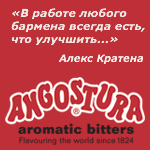
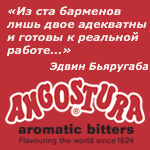
content update

Changed region(s): [[0.0267, 0.0267, 0.9867, 0.48]]

diff --git a/htdocs/blog/rules-17-05-2012/rules-17-05-2012.html b/htdocs/blog/rules-17-05-2012/rules-17-05-2012.html
@@ -1,0 +1,96 @@
+<!DOCTYPE html>
+<html lang="ru" id="blog-post-page" class="blog-section branding-short">
+<head>
+	<!--# include virtual="/inc/blog-head.html" -->
+	<meta property="fb:app_id" content="212377082118520">
+	<title>Правила работы: Эдвин Бьяругаба — Супер Блог — Inshaker</title>
+</head>
+<body>
+<!--# include virtual="/inc/common-top.html" -->
+<div id="common-main-wrapper">
+
+<!--# include virtual="/inc/blog-top.html" -->
+
+<div id="the-one">
+
+<div class="post">
+	<h1 class="title" data-title="Правила работы: Эдвин Бьяругаба">Правила работы: Эдвин Бьяругаба</h1>
+	<div class="body">
+		<p><a href="/barman/edvin-byarygaba/">Эдвин Бьяругаба</a>, бар-менеджер дизайнерского бара <a href="/bar/denis_simachev_shop_and_bar/">«Симачёв»</a>, 30 лет, Москва.</p>
+<p><div class="image-box"><img src="/blog/rules-17-05-2012/i/1.jpg" class="image"/></div>
+<div class="image-box"><img src="/blog/rules-17-05-2012/i/7.png" class="image"/></div></p>
+<p><p><b>К набору персонала</b> я отношусь очень щепетильно, в баре не должно быть случайных людей.</p>
+	<hr>
+<p><b>Бармен не должен</b> быть излишне самоуверен. Он должен хотеть развиваться дальше, учиться чему-то новому, излишняя самоуверенность лишь тянет человека назад.</p>
+	<hr>
+<p><b>Из ста барменов</b> лишь двое адекватны и готовы к реальной работе, со всеми ее плюсами и минусами.</p>
+	<hr>
+<p><b>Бармену нужно</b> отдаваться своему делу полностью. Это не однодневная или временная работа, это серьезная работа, у которой большие перспективы. </p>
+	<hr>
+<p><b>Человеку не должно быть скучно</b> на рабочем месте. Бармен без фантазии – явление невозможное, особенно, если речь идет о коктейльном баре.</p>
+	<hr>
+<p><b>Важно, чтобы каждый</b> коктейль подавался с одним смыслом и идеей, чтобы бармен миксовал напиток с одинаковой отдачей для всех гостей заведения.</p>
+	<hr>
+<p><b>Форс-мажорные ситуации</b> происходят постоянно, и справляться с ними нужно оперативно.</p>
+	<hr>
+<p><b>У барменов есть</b> якобы правило, что посетитель всегда прав. Это не правда, посетитель тоже бывает не прав.</p>
+	<hr>
+<p><b>Большой плюс бармену</b>, если он сможет принять неприятную ситуацию, не потеряв свое лицо.</p>
+	<hr>
+<p><b>Недопустимый промах в работе</b> – это вообще не прийти на работу.</p>
+	<hr>
+<p><b>Бармен – это мужская профессия</b>. Ты должен будешь поднимать коробки по 30 килограммов, все время находится на ногах, работать по ночам. Все это не для женщин.</p>
+	<hr>
+<p><b>Плюс в том</b>, что, профессия бармена в России только набирает обороты, а, значит, дальше будет только интереснее.</p>
+	<hr>
+<p><b>Удачный рабочий день</b> – это просто хороший день, когда ты уходишь с работы в отличном настроении, когда ты все успеваешь, что планировал.</p>
+	<hr>
+<p><b>Бармен не должен</b> пересиливать себя и выдавливать улыбку, если он в плохом настроении. Он должен быть, в первую очередь, вежливым профессионалом.</p>
+	<hr>
+<p><b>Чтобы стать успешным</b>, нужно быть трудолюбивым и уважать своего работодателя. И все получится.</p>
+	<hr></p>
+<p><div class="image-box"><img src="/blog/rules-17-05-2012/i/10.png" class="image"/></div></p>
+<p><i>Автор статьи — <a href="http://www.facebook.com/lina.marish">Полина Маришичева</a>, променявшая карьеру дипломата в Азии на «Белый русский» и коктейльную журналистику, при горькой поддержке биттеров <a href="/combinator.html#q%3DАнгостура%20биттер%26s%3Dincreasing-complexity%26y%3D0">Angostura</a>.</i></p>
+	</div>
+	<div class="more">
+		<div id="share-box">
+			<a class="button vkontakte" href="http://vkontakte.ru/share.php?url=${url}"><i></i></a><a class="button facebook" href="http://www.facebook.com/sharer.php?u=${url}&t=${text}"><i></i></a><a class="button twitter" href="http://twitter.com/share?url=${url}&text=${text}&via=inshaker&related=inshaker&lang=ru"><i></i></a>
+		</div>
+		
+		<div class="tags">
+			Теги:
+			<ul class="list">
+				
+				<li class="tag"><a class="link" href="/blog/#tag=правила работы">правила работы</a></li>
+				
+			</ul>
+		</div>
+		<a class="deeper" href="/blog/">← сколько всего интересного</a>
+		<span class="date">17 мая 2012</span>
+	</div>
+</div>
+
+</div id="the-one">
+
+
+<div id="fb-root"></div>
+<script src="http://connect.facebook.net/ru_RU/all.js#xfbml=1"></script>
+<fb:comments id="fb-comments-conf" num_posts="50" width="590"></fb:comments>
+<script>
+document.getElementById('fb-comments-conf').setAttribute('href', location.href)
+</script>
+
+
+<div id="tag-cloud">
+	Все теги:
+	<ul class="list">
+		<li class="tag all"><a class="link" href="/blog/">все посты</a></li>
+		<!--# include virtual="/blog/tag-cloud.html" -->
+	</ul>
+</div>
+
+
+</div id="common-main-wrapper">
+<!--# include virtual="/inc/blog-footer.html" -->
+</body>
+</html>

diff --git a/htdocs/blog/links.html b/htdocs/blog/links.html
@@ -1,3 +1,4 @@
+<li><a href="/event/rules-17-05-2012/">Правила работы: Эдвин Бьяругаба</a></li>
 <li><a href="/event/cocktail-classics-16-05-2012/">Коктейльная классика: Пунш плантатора</a></li>
 <li><a href="/event/cocktail-hit-15-05-2012/">Авторский хит: Блэк вуд</a></li>
 <li><a href="/event/buhlo-14-05-2012/">Бухло: Тупой, как пробка</a></li>
@@ -14,13 +15,13 @@
 <li><a href="/event/cocktail-rating-06-05-2012/">Коктейльные рейтинги: Топ 10 коктейлей с клюквенным морсом</a></li>
 <li><a href="/event/diageo-world-class-05-05-2012/">Diageo Reserve World Class 2012</a></li>
 <li><a href="/event/friends-05-05-2012/">Добавляем в друзья: Роман Милостивый</a></li>
-<li><a href="/event/open-04-05-2012/">Подбери помещение под свой бар</a></li>
 <li><a href="/event/learning-04-05-2012/">Хочу всё знать: Американский виски и его виды </a></li>
-<li><a href="/event/interior-03-05-2012/">Детали в барах: Майяуэль</a></li>
+<li><a href="/event/open-04-05-2012/">Подбери помещение под свой бар</a></li>
 <li><a href="/event/rules-03-05-2012/">Правила работы: Андрей Козлов</a></li>
+<li><a href="/event/interior-03-05-2012/">Детали в барах: Майяуэль</a></li>
 <li><a href="/event/window-02-05-2012/">Барные витрины: Уфа</a></li>
-<li><a href="/event/decorate-01-05-2012/">Безумные украшения: Шемрок</a></li>
 <li><a href="/event/news-01-05-2012/">Что нового?</a></li>
+<li><a href="/event/decorate-01-05-2012/">Безумные украшения: Шемрок</a></li>
 <li><a href="/event/cocktail-hit-01-05-2012/">Авторский хит: Платиновая ягода</a></li>
 <li><a href="/event/buhlo-30-04-2012/">Бухло: Республика Калифорния</a></li>
 <li><a href="/event/cocktail-rating-29-04-2012/">Коктейльные рейтинги: Топ 10 с Кампари</a></li>
@@ -46,8 +47,8 @@
 <li><a href="/event/diageo-world-class-14-04-2012/">Diageo Reserve World Class 2012</a></li>
 <li><a href="/event/friends-14-04-2012/">Добавляем в друзья: Джейми Стивенсон</a></li>
 <li><a href="/event/open-13-04-2012/">Найди деньги на открытие своего бара: Частный инвестор</a></li>
-<li><a href="/event/interior-12-04-2012/">Детали в барах: Канделария</a></li>
 <li><a href="/event/rules-12-04-2012/">Правила работы: Константин Комаров</a></li>
+<li><a href="/event/interior-12-04-2012/">Детали в барах: Канделария</a></li>
 <li><a href="/event/cocktail-classics-11-04-2012/">Коктейльная классика: Май тай</a></li>
 <li><a href="/event/decorate-10-04-2012/">Безумные украшения: И снова Мэри</a></li>
 <li><a href="/event/cocktail-hit-10-04-2012/">Авторский хит: Ванна пузырьков мартини</a></li>
@@ -55,16 +56,16 @@
 <li><a href="/event/cocktail-rating-08-04-2012/">Коктейльные рейтинги: Топ 10 коктейлей на целую компанию</a></li>
 <li><a href="/event/diageo-world-class-07-04-2012/">Diageo Reserve World Class 2012</a></li>
 <li><a href="/event/friends-07-04-2012/">Добавляем в друзья: Ладо Прангишвили</a></li>
-<li><a href="/event/learning-06-04-2012/">Хочу всё знать: Вишневая сказка Питера Херинга </a></li>
 <li><a href="/event/open-06-04-2012/">Найди деньги на открытие своего бара: Банковский кредит</a></li>
-<li><a href="/event/rules-05-04-2012/">Правила работы: Алексей Шапошников</a></li>
+<li><a href="/event/learning-06-04-2012/">Хочу всё знать: Вишневая сказка Питера Херинга </a></li>
 <li><a href="/event/interior-05-04-2012/">Детали в барах: 22.13</a></li>
+<li><a href="/event/rules-05-04-2012/">Правила работы: Алексей Шапошников</a></li>
 <li><a href="/event/window-04-04-2012/">Барные витрины: Ростов-на-Дону</a></li>
 <li><a href="/event/decorate-03-04-2012/">Безумные украшения: Рассвет на острове</a></li>
 <li><a href="/event/cocktail-hit-03-04-2012/">Авторский хит: Лакомый кусочек</a></li>
 <li><a href="/event/buhlo-02-04-2012/">Бухло: Профессор Нужный</a></li>
-<li><a href="/event/cocktail-rating-01-04-2012/">Коктейльные рейтинги: Топ 10 победителей IBA</a></li>
 <li><a href="/event/news-01-04-2012/">Что нового?</a></li>
+<li><a href="/event/cocktail-rating-01-04-2012/">Коктейльные рейтинги: Топ 10 победителей IBA</a></li>
 <li><a href="/event/diageo-world-class-31-03-2012/">Diageo Reserve World Class 2012</a></li>
 <li><a href="/event/friends-31-03-2012/">Добавляем в друзья: Артем Емельшин</a></li>
 <li><a href="/event/open-30-03-2012/">Составь бизнес-план своего бара</a></li>

diff --git a/htdocs/blog/posts.html b/htdocs/blog/posts.html
@@ -1,3 +1,4 @@
+<!--# include virtual="/blog/rules-17-05-2012/preview-snippet.html" -->
 <!--# include virtual="/blog/cocktail-classics-16-05-2012/preview-snippet.html" -->
 <!--# include virtual="/blog/cocktail-hit-15-05-2012/preview-snippet.html" -->
 <!--# include virtual="/blog/buhlo-14-05-2012/preview-snippet.html" -->
@@ -14,13 +15,13 @@
 <!--# include virtual="/blog/cocktail-rating-06-05-2012/preview-snippet.html" -->
 <!--# include virtual="/blog/diageo-world-class-05-05-2012/preview-snippet.html" -->
 <!--# include virtual="/blog/friends-05-05-2012/preview-snippet.html" -->
-<!--# include virtual="/blog/open-04-05-2012/preview-snippet.html" -->
 <!--# include virtual="/blog/learning-04-05-2012/preview-snippet.html" -->
-<!--# include virtual="/blog/interior-03-05-2012/preview-snippet.html" -->
+<!--# include virtual="/blog/open-04-05-2012/preview-snippet.html" -->
 <!--# include virtual="/blog/rules-03-05-2012/preview-snippet.html" -->
+<!--# include virtual="/blog/interior-03-05-2012/preview-snippet.html" -->
 <!--# include virtual="/blog/window-02-05-2012/preview-snippet.html" -->
-<!--# include virtual="/blog/decorate-01-05-2012/preview-snippet.html" -->
 <!--# include virtual="/blog/news-01-05-2012/preview-snippet.html" -->
+<!--# include virtual="/blog/decorate-01-05-2012/preview-snippet.html" -->
 <!--# include virtual="/blog/cocktail-hit-01-05-2012/preview-snippet.html" -->
 <!--# include virtual="/blog/buhlo-30-04-2012/preview-snippet.html" -->
 <!--# include virtual="/blog/cocktail-rating-29-04-2012/preview-snippet.html" -->
@@ -46,8 +47,8 @@
 <!--# include virtual="/blog/diageo-world-class-14-04-2012/preview-snippet.html" -->
 <!--# include virtual="/blog/friends-14-04-2012/preview-snippet.html" -->
 <!--# include virtual="/blog/open-13-04-2012/preview-snippet.html" -->
-<!--# include virtual="/blog/interior-12-04-2012/preview-snippet.html" -->
 <!--# include virtual="/blog/rules-12-04-2012/preview-snippet.html" -->
+<!--# include virtual="/blog/interior-12-04-2012/preview-snippet.html" -->
 <!--# include virtual="/blog/cocktail-classics-11-04-2012/preview-snippet.html" -->
 <!--# include virtual="/blog/decorate-10-04-2012/preview-snippet.html" -->
 <!--# include virtual="/blog/cocktail-hit-10-04-2012/preview-snippet.html" -->
@@ -55,16 +56,16 @@
 <!--# include virtual="/blog/cocktail-rating-08-04-2012/preview-snippet.html" -->
 <!--# include virtual="/blog/diageo-world-class-07-04-2012/preview-snippet.html" -->
 <!--# include virtual="/blog/friends-07-04-2012/preview-snippet.html" -->
-<!--# include virtual="/blog/learning-06-04-2012/preview-snippet.html" -->
 <!--# include virtual="/blog/open-06-04-2012/preview-snippet.html" -->
-<!--# include virtual="/blog/rules-05-04-2012/preview-snippet.html" -->
+<!--# include virtual="/blog/learning-06-04-2012/preview-snippet.html" -->
 <!--# include virtual="/blog/interior-05-04-2012/preview-snippet.html" -->
+<!--# include virtual="/blog/rules-05-04-2012/preview-snippet.html" -->
 <!--# include virtual="/blog/window-04-04-2012/preview-snippet.html" -->
 <!--# include virtual="/blog/decorate-03-04-2012/preview-snippet.html" -->
 <!--# include virtual="/blog/cocktail-hit-03-04-2012/preview-snippet.html" -->
 <!--# include virtual="/blog/buhlo-02-04-2012/preview-snippet.html" -->
-<!--# include virtual="/blog/cocktail-rating-01-04-2012/preview-snippet.html" -->
 <!--# include virtual="/blog/news-01-04-2012/preview-snippet.html" -->
+<!--# include virtual="/blog/cocktail-rating-01-04-2012/preview-snippet.html" -->
 <!--# include virtual="/blog/diageo-world-class-31-03-2012/preview-snippet.html" -->
 <!--# include virtual="/blog/friends-31-03-2012/preview-snippet.html" -->
 <!--# include virtual="/blog/open-30-03-2012/preview-snippet.html" -->

diff --git a/htdocs/blog/rules-17-05-2012/preview-snippet.html b/htdocs/blog/rules-17-05-2012/preview-snippet.html
@@ -1,0 +1,18 @@
+<li class="post preview tag-16">
+	<h2 class="title"><a href="/blog/rules-17-05-2012/#the-one">Правила работы: Эдвин Бьяругаба</a></h2>
+	<div class="body">
+		<p><div class="image-box"><a href="/blog/rules-17-05-2012/#the-one"><img lazy-src="/blog/rules-17-05-2012/i/1.jpg" class="image lazy" width="590" height="320"/></a></div></p>
+<p>«Из ста барменов лишь двое адекватны и готовы к реальной работе...»</p>
+	</div>
+	<div class="more">
+		<div class="tags">
+			Теги:
+			<ul class="list">
+				
+				<li class="tag tag-16"><a class="link" href="/blog/#tag=правила работы">правила работы</a></li>
+				
+			</ul>
+		</div>
+		<span class="date">17 мая 2012</span>
+	</div>
+</li>
